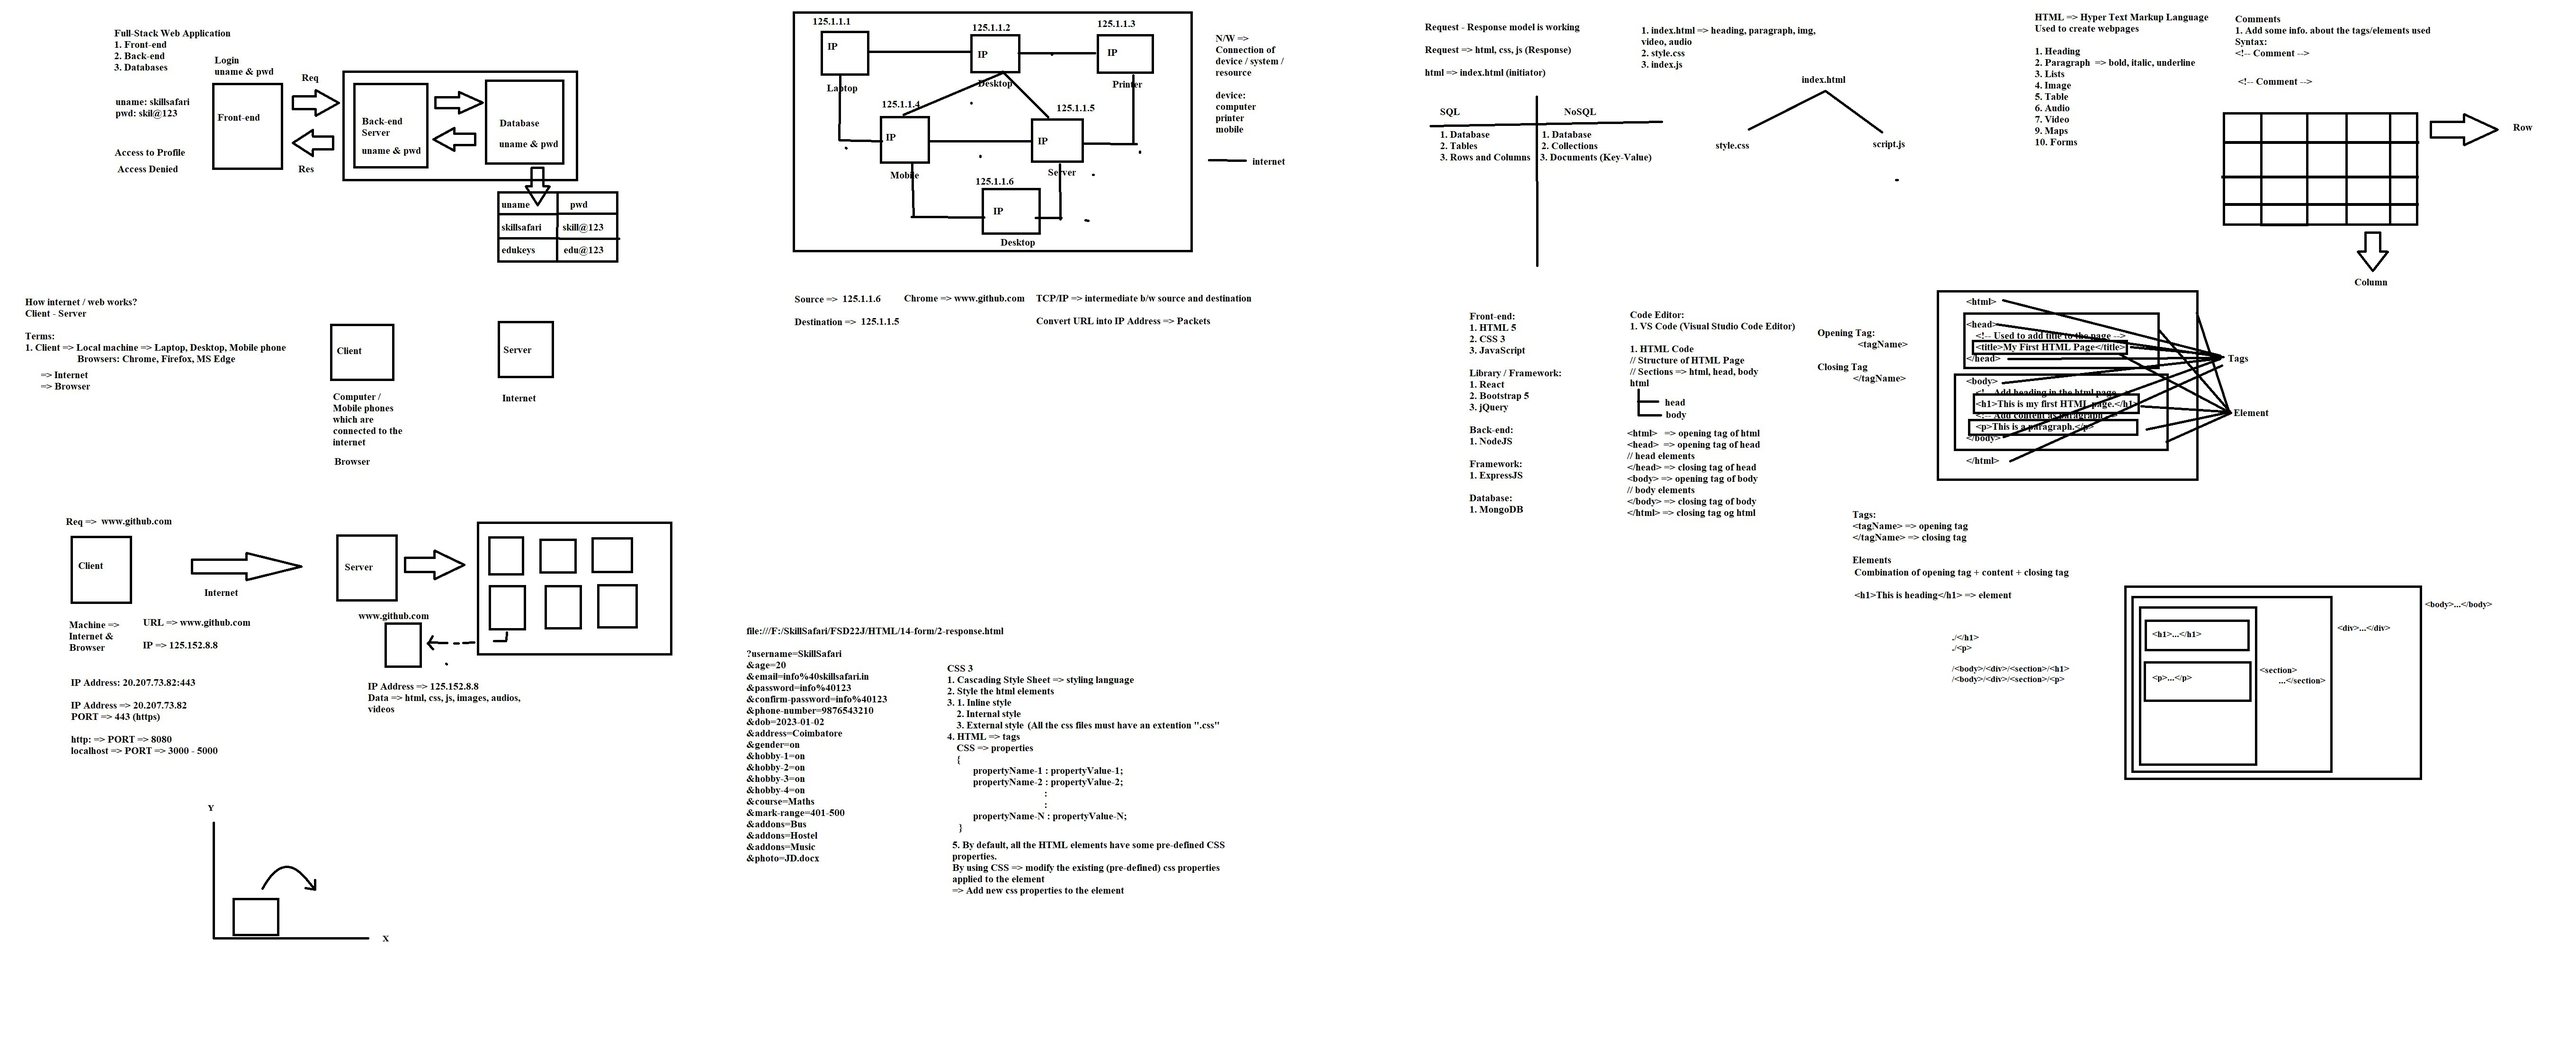
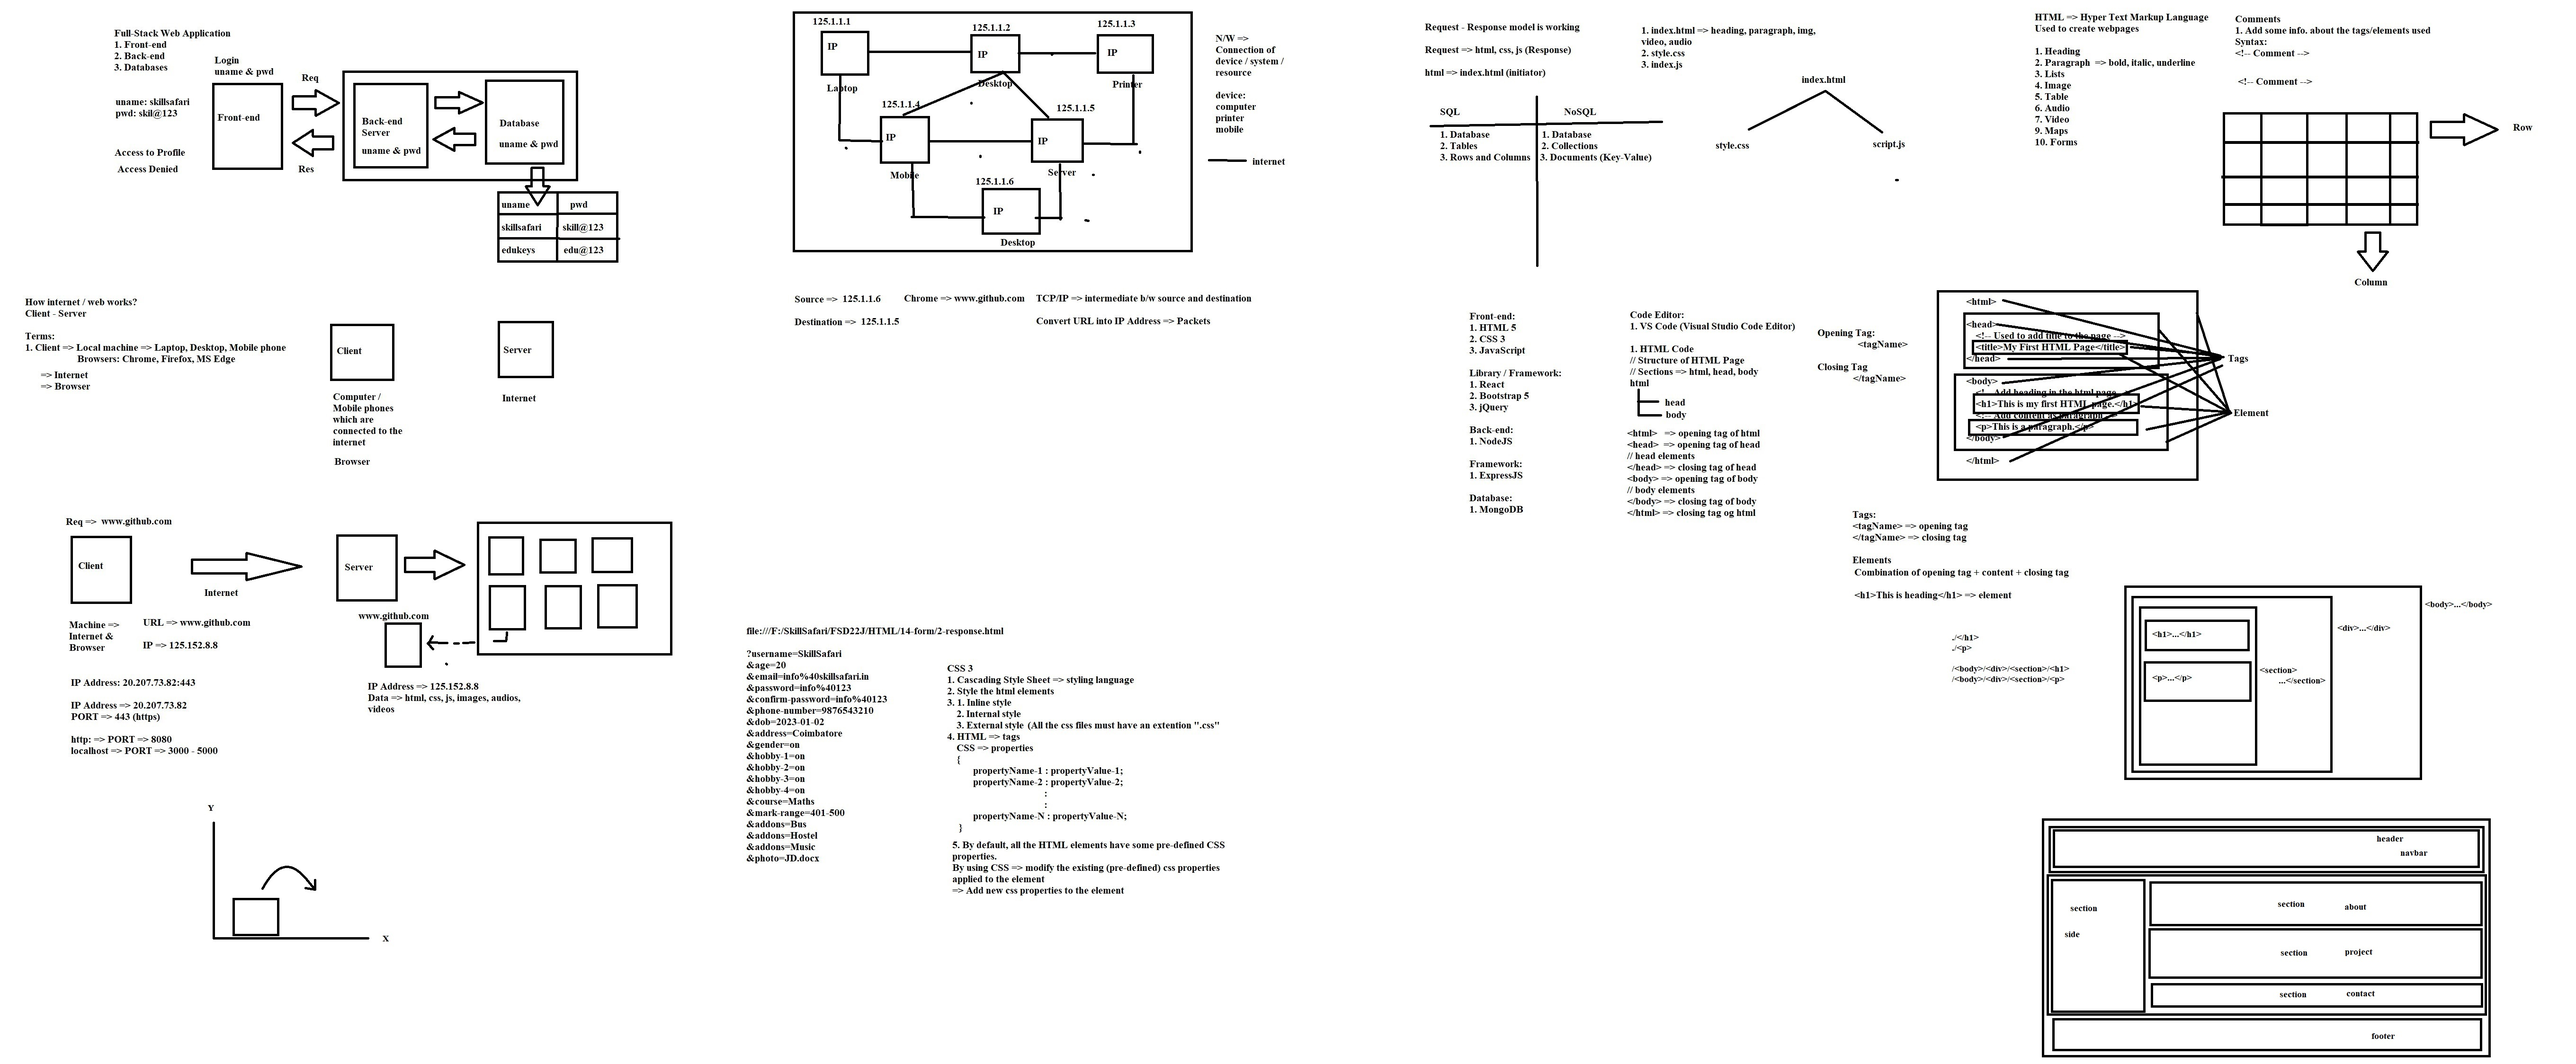
html-css-project

Changed region(s): [[0.7812, 0.7473, 0.9688, 0.9964]]

diff --git a/CSS/15-Project/index.html b/CSS/15-Project/index.html
@@ -1,0 +1,74 @@
+<!DOCTYPE html>
+<html lang="en">
+
+<head>
+    <meta charset="UTF-8">
+    <meta http-equiv="X-UA-Compatible" content="IE=edge">
+    <meta name="viewport" content="width=device-width, initial-scale=1.0">
+    <meta name="Description" content="HTML and CSS Project">
+    <title>HTML and CSS Project</title>
+    <link rel="stylesheet" href="./style.css">
+</head>
+
+<body>
+    <header>
+        <div class="company-info">
+            <div class="company-logo"><a href="#">SkillSafari</a></div>
+            <div class="company-name"><a href="#">EduKeys</a></div>
+            <div class="search"><input type="search"></div>
+        </div>
+        <nav class="navbar">
+            <ul>
+                <li class="nav-item"><a href="#">About</a></li>
+                <li class="nav-item"><a href="#">Projects</a></li>
+                <li class="nav-item"><a href="#">Contact</a></li>
+            </ul>
+        </nav>
+    </header>
+    <section id="overall-section">
+        <div class="left">
+            <h2>Left Section</h2>
+            <p>Lorem, ipsum dolor sit amet consectetur adipisicing elit. In commodi incidunt amet obcaecati velit
+                reiciendis porro sed sequi ad, culpa perspiciatis, rem dolor aut tempora! Ab quaerat modi molestiae
+                placeat, numquam veniam minima totam nostrum eveniet culpa consectetur quidem? Laudantium, iure. Harum,
+                impedit saepe ab officia deserunt, iusto officiis debitis omnis libero natus excepturi laudantium. Totam
+                temporibus perferendis facere laborum quidem ullam, ipsa cumque asperiores commodi rerum sed repellat
+                distinctio non ea, aliquam natus rem numquam! Sed, in doloribus atque odit et quidem dolorum inventore
+                quos id corporis possimus quo dicta fugiat! Voluptatibus eaque numquam unde corporis voluptate
+                recusandae beatae!</p>
+        </div>
+        <div class="right">
+            <section class="about">
+                <h2>About Section</h2>
+                <p>Lorem ipsum dolor sit amet consectetur adipisicing elit. Earum odio quibusdam ad vitae, magnam
+                    corrupti suscipit consequuntur dolor rem ducimus sit, magni id optio tempore, est laudantium
+                    consequatur. Neque, sunt. Nisi dolore quisquam tenetur accusamus itaque sed aperiam aliquid ipsum
+                    provident veniam, blanditiis placeat dolor quod dolores assumenda nam nostrum vel! Illum porro fugit
+                    dolore iure sint! Cumque quam.</p>
+            </section>
+            <section class="project">
+                <h2>Projects Section</h2>
+                <p>Lorem ipsum dolor sit amet consectetur adipisicing elit. Illum perferendis dolore sequi commodi
+                    corrupti autem dicta enim, reiciendis aperiam, libero, vitae tempora animi asperiores explicabo
+                    fugit minima earum error voluptas ullam officia adipisci repellendus ex voluptatem. Itaque
+                    voluptates repellendus deserunt modi inventore voluptatem, obcaecati quod hic rem molestiae sunt
+                    assumenda, dolore dolorem eligendi consequatur nulla fuga debitis et, quidem aliquam vel!
+                    Voluptatibus, minima.</p>
+            </section>
+            <section class="contact">
+                <h2>Contact Section</h2>
+                <p>Lorem ipsum dolor sit amet, consectetur adipisicing elit. Sequi reprehenderit quia, nam ab non
+                    possimus ipsam, commodi est, voluptatem optio explicabo cupiditate pariatur tempore. Alias ducimus
+                    praesentium rem quibusdam aperiam quo quisquam iste ab magni blanditiis delectus corporis
+                    temporibus, nostrum non accusantium adipisci laudantium quas dolore eveniet sed ea, similique,
+                    quidem eos. Asperiores pariatur voluptate fugiat dicta consequatur accusantium rem vel at
+                    cupiditate.</p>
+            </section>
+        </div>
+    </section>
+    <footer>
+        <p>Copyright &copy; www.skillsafari.in. All rights reserved.</p>
+    </footer>
+</body>
+
+</html>

diff --git a/CSS/15-Project/style.css b/CSS/15-Project/style.css
@@ -1,0 +1,83 @@
+@import url("https://fonts.googleapis.com/css2?family=Roboto:wght@400;700;900&display=swap");
+@import url("https://fonts.googleapis.com/css2?family=Cinzel+Decorative&display=swap");
+
+* {
+  margin: 0;
+  padding: 0;
+  box-sizing: border-box;
+}
+.company-info {
+  background: coral;
+  display: flex;
+  justify-content: space-between;
+  padding: 15px;
+}
+
+.company-info > .company-logo > a {
+  text-decoration: none;
+  font-family: "Cinzel Decorative", cursive;
+  color: white;
+  font-weight: bold;
+  font-size: 20px;
+}
+
+.company-info > .company-name > a {
+  text-decoration: none;
+  color: white;
+  font-weight: bold;
+  font-size: 20px;
+}
+
+.company-info > .search > input {
+  border: none;
+  border-radius: 5px;
+  height: 25px;
+  width: 200px;
+}
+
+.navbar > ul {
+  display: flex;
+  justify-content: space-around;
+  list-style: none;
+  background: crimson;
+  padding: 20px;
+}
+
+.navbar > ul > .nav-item > a {
+  text-decoration: none;
+  font-size: 20px;
+  color: white;
+  font-weight: bold;
+}
+
+#overall-section {
+  min-height: 100vh;
+  background: yellowgreen;
+  display: flex;
+  justify-content: space-between;
+}
+
+.left {
+  /* height: 100vh; */
+  width: 25%;
+  background: gray;
+  padding: 20px;
+}
+
+.right {
+  /* height: 100vh; */
+  width: 75%;
+  background: goldenrod;
+  padding: 20px;
+}
+
+footer {
+  background: coral;
+}
+
+footer > p {
+  text-align: center;
+  padding: 20px;
+  font-size: 20px;
+  color: white;
+}
